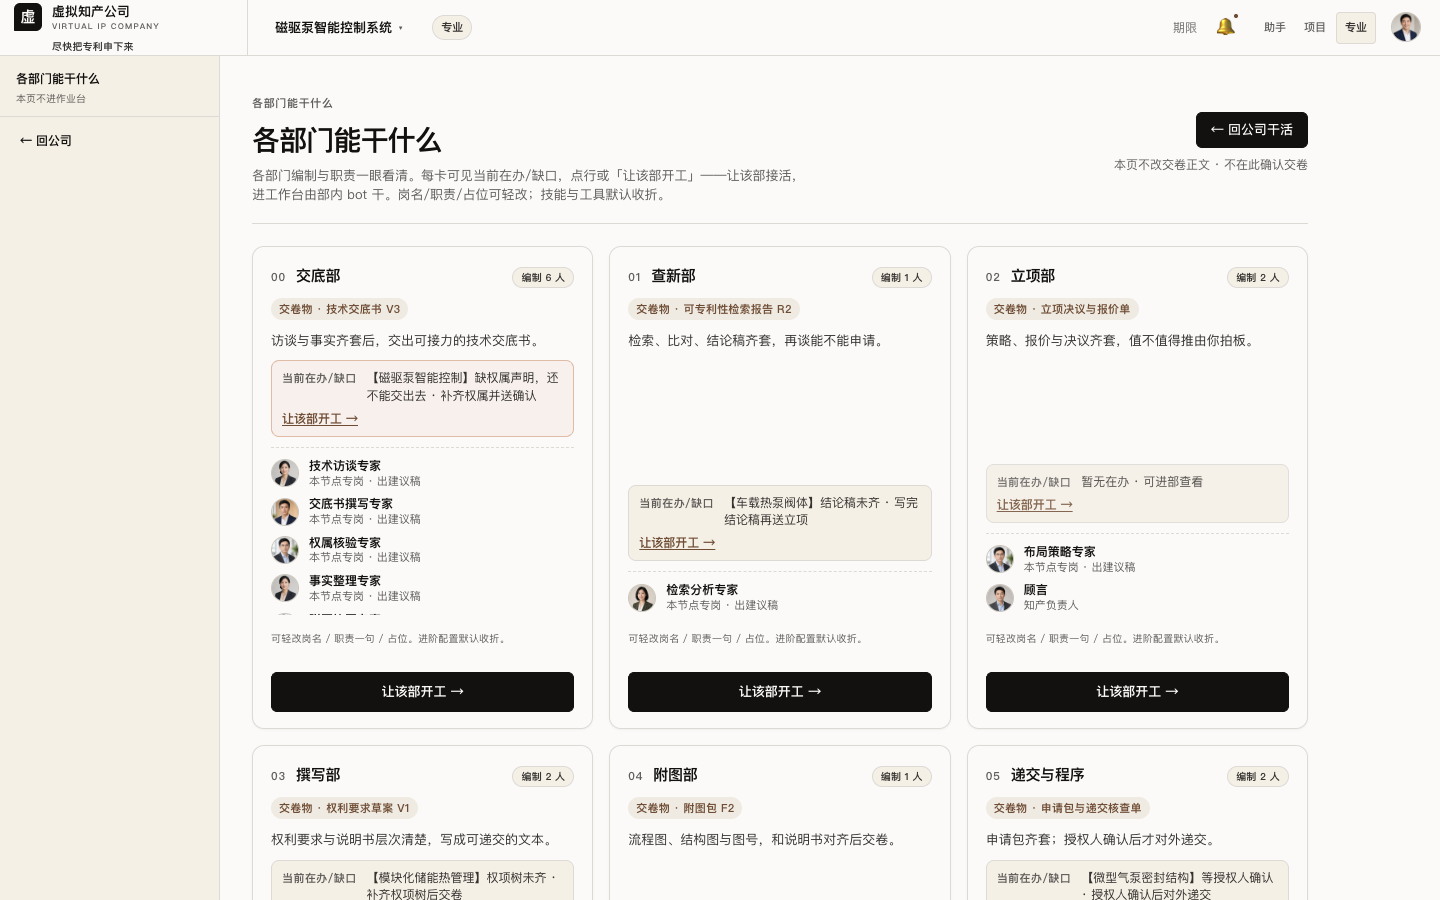
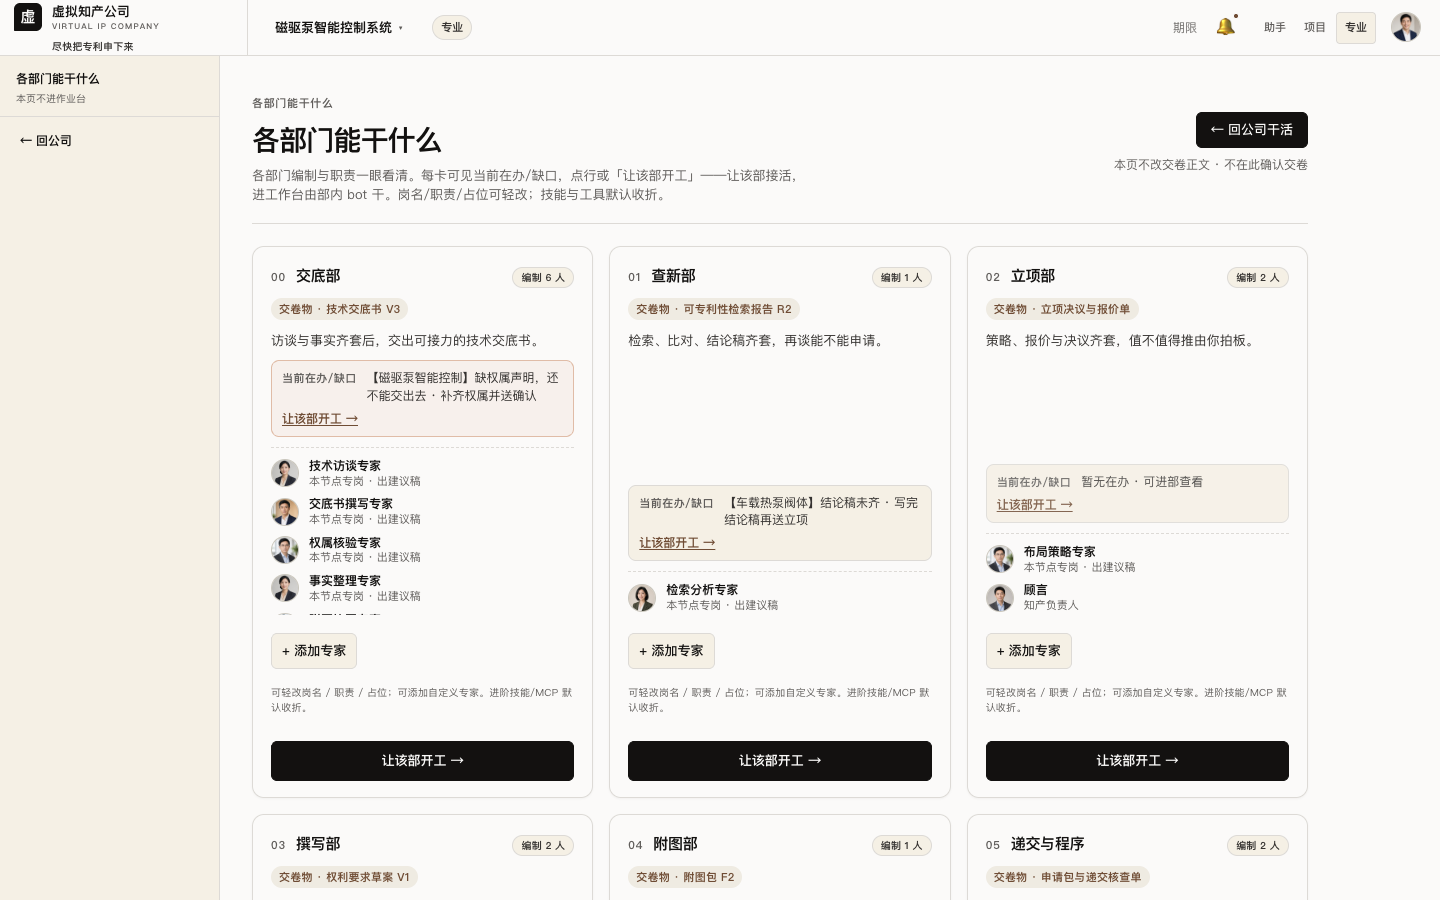
proto: 专业卡「添加专家」轻配；自定义席可删
Leslie 批：每部卡可加专家（岗名+占位；写入 mpv2-prof-light）；
内置席保留 contenteditable；自定义可删；技能/MCP 仍默认收折。
pages/vision 旁注轻配含添加专家。验收 U_prof_add_expert / U_prof_del_custom；37 pass。未 push；禁 apps/agent。

Changed region(s): [[0.4375, 0.6844, 0.9062, 1.0], [0.1875, 0.6844, 0.4062, 1.0]]

diff --git a/docs/prototype/main-path-v2/app.js b/docs/prototype/main-path-v2/app.js
@@ -334,11 +334,19 @@
           light[dept][field] = val;
         } else if (field === 'title' || field === 'role') {
           const wrap = el.closest('[data-prof-expert]');
-          const idx = wrap ? wrap.dataset.idx : null;
-          if (idx == null) return;
-          if (!light[dept].experts) light[dept].experts = {};
-          if (!light[dept].experts[idx]) light[dept].experts[idx] = {};
-          light[dept].experts[idx][field] = val;
+          if (!wrap) return;
+          const customId = wrap.dataset.customId;
+          if (customId) {
+            if (!Array.isArray(light[dept].custom)) light[dept].custom = [];
+            const row = light[dept].custom.find(c => c && c.id === customId);
+            if (row) row[field] = val;
+          } else {
+            const idx = wrap.dataset.idx;
+            if (idx == null) return;
+            if (!light[dept].experts) light[dept].experts = {};
+            if (!light[dept].experts[idx]) light[dept].experts[idx] = {};
+            light[dept].experts[idx][field] = val;
+          }
         }
         saveProfLight(light);
       });
@@ -347,23 +355,72 @@
 
   function renderProfExperts(names, deptId) {
     const light = loadProfLight();
-    const overrides = (light[deptId] && light[deptId].experts) || {};
-    // 按实际编制展示（交底部约 5–6）；禁凑编墙，不截成技能配置
-    return (names || []).map((e, i) => {
+    const deptLight = light[deptId] || {};
+    const overrides = deptLight.experts || {};
+    const hidden = new Set(deptLight.hidden || []);
+    // 按实际编制展示（交底部约 5–6）；禁凑编墙；自定义席来自 mpv2-prof-light.custom
+    const builtIn = (names || []).map((e, i) => {
+      if (hidden.has(String(i))) return '';
       const m = expertMeta(e, i);
       const parts = m.name.split(/\s*·\s*/);
       const title0 = parts[0];
       const role0 = parts[1] || (m.human ? '在岗复核 · 建议稿≠确认' : '本节点专岗 · 出建议稿');
-      const ov = overrides[i] || {};
+      const ov = overrides[i] || overrides[String(i)] || {};
       const title = ov.title || title0;
       const role = ov.role || role0;
       return '<div class="prof-expert" data-prof-expert data-dept="' + deptId + '" data-idx="' + i + '">' +
         '<img class="avatar avatar-photo avatar-small" src="' + m.src + '" alt="" width="32" height="32">' +
         '<span>' +
-          '<strong class="prof-edit" contenteditable="true" spellcheck="false" data-prof-field="title" aria-label="岗名">' + title + '</strong>' +
-          '<small class="prof-edit" contenteditable="true" spellcheck="false" data-prof-field="role" aria-label="占位一句">' + role + '</small>' +
+          '<strong class="prof-edit" contenteditable="true" spellcheck="false" data-prof-field="title" aria-label="岗名">' + esc(title) + '</strong>' +
+          '<small class="prof-edit" contenteditable="true" spellcheck="false" data-prof-field="role" aria-label="占位一句">' + esc(role) + '</small>' +
         '</span></div>';
     }).join('');
+    const customs = (deptLight.custom || []).map((c, ci) => {
+      const title = c.title || '新专家岗';
+      const role = c.role || '占位一句 · 可改';
+      const m = expertMeta(title, (names || []).length + ci);
+      const src = c.avatar || m.src;
+      const cid = c.id || ('c' + ci);
+      return '<div class="prof-expert is-custom" data-prof-expert data-dept="' + deptId + '" data-custom-id="' + esc(cid) + '" data-idx="custom:' + esc(cid) + '">' +
+        '<img class="avatar avatar-photo avatar-small" src="' + src + '" alt="" width="32" height="32" title="头像占位">' +
+        '<span>' +
+          '<strong class="prof-edit" contenteditable="true" spellcheck="false" data-prof-field="title" aria-label="岗名">' + esc(title) + '</strong>' +
+          '<small class="prof-edit" contenteditable="true" spellcheck="false" data-prof-field="role" aria-label="占位一句">' + esc(role) + '</small>' +
+        '</span>' +
+        '<button type="button" class="prof-expert-del" data-del-custom="' + esc(cid) + '" data-dept="' + deptId + '" aria-label="删除自定义专家">×</button>' +
+        '</div>';
+    }).join('');
+    return builtIn + customs;
+  }
+
+  function esc(s) {
+    return String(s == null ? '' : s)
+      .replace(/&/g, '&amp;').replace(/</g, '&lt;').replace(/>/g, '&gt;').replace(/"/g, '&quot;');
+  }
+
+  function profExpertCount(deptId, builtInNames) {
+    const light = loadProfLight();
+    const dl = light[deptId] || {};
+    const hidden = new Set(dl.hidden || []);
+    const base = (builtInNames || []).filter((_, i) => !hidden.has(String(i))).length;
+    return base + ((dl.custom || []).length);
+  }
+
+  function addProfCustomExpert(deptId) {
+    const light = loadProfLight();
+    if (!light[deptId]) light[deptId] = {};
+    if (!Array.isArray(light[deptId].custom)) light[deptId].custom = [];
+    const id = 'c' + Date.now().toString(36) + Math.random().toString(36).slice(2, 5);
+    light[deptId].custom.push({ id: id, title: '新专家岗', role: '占位一句 · 可改' });
+    saveProfLight(light);
+    return id;
+  }
+
+  function removeProfCustomExpert(deptId, customId) {
+    const light = loadProfLight();
+    if (!light[deptId] || !Array.isArray(light[deptId].custom)) return;
+    light[deptId].custom = light[deptId].custom.filter(c => c && c.id !== customId);
+    saveProfLight(light);
   }
 
   function wireWelcomeShelf() {
@@ -971,7 +1028,7 @@
       const light = loadProfLight();
       const duty = (light[d.id] && light[d.id].duty) || (d.pitch || '');
       const faces = renderProfExperts(d.experts, d.id);
-      const nExp = (d.experts || []).length;
+      const nExp = profExpertCount(d.id, d.experts);
       const staffLabel = nExp ? ('编制 ' + nExp + ' 人') : '编制待配';
       const st = profStatusForDept(d.id);
       const statusLead = st.caseShort
@@ -992,7 +1049,8 @@
           '<span class="prof-status-go">让该部开工 →</span>' +
         '</a>' +
         '<div class="prof-experts" aria-label="' + d.name + '专家">' + faces + '</div>' +
-        '<p class="prof-light-hint">可轻改岗名 / 职责一句 / 占位。进阶配置默认收折。</p>' +
+        '<button type="button" class="btn btn-secondary prof-add-expert" data-add-expert="' + d.id + '" aria-label="为' + d.name + '添加专家">+ 添加专家</button>' +
+        '<p class="prof-light-hint">可轻改岗名 / 职责 / 占位；可添加自定义专家。进阶技能/MCP 默认收折。</p>' +
         '<button type="button" class="btn btn-ink prof-go" data-go-dept="' + d.id + '" aria-label="让' + d.name + '开工">让该部开工 →</button>' +
         '</article>';
     }).join('');
@@ -1003,6 +1061,21 @@
       });
     });
     wireProfLightEdit(grid);
+    grid.querySelectorAll('[data-add-expert]').forEach(btn => {
+      btn.addEventListener('click', (e) => {
+        e.preventDefault();
+        addProfCustomExpert(btn.dataset.addExpert);
+        wireProfessionalPage();
+      });
+    });
+    grid.querySelectorAll('[data-del-custom]').forEach(btn => {
+      btn.addEventListener('click', (e) => {
+        e.preventDefault();
+        e.stopPropagation();
+        removeProfCustomExpert(btn.dataset.dept, btn.dataset.delCustom);
+        wireProfessionalPage();
+      });
+    });
     // Legal exits: must setMode(project) before navigating — no studio bounce
     document.querySelectorAll('[data-exit-pro]').forEach(a => {
       a.addEventListener('click', (e) => {
@@ -2885,7 +2958,7 @@
     getDelegation, setDelegation, getSnapshot, setSnapshot, goWorkDept, exitProfessional,
     pendingDeptForRole, gateHref, applyBellByRole, lastWorkHref,
     wireShell, wireTopbarDetails, wireDeptPage, wirePending, wireChecklist, wireDelegate, wireHome, wireCompanyPage, wireCompanySnapshot, wireProfessionalPage, injectGuyanPresence, syncDeptFold, applyRelayHandoff,
-    renderExperts, renderRailExperts, renderExpertFaces, renderProfExperts, wireProfLightEdit, loadProfLight, wireWelcomeShelf, wireCompanyDeptFaces, planFromGoal, wireWelcomeGoalDemo, gapActionsFor,
+    renderExperts, renderRailExperts, renderExpertFaces, renderProfExperts, wireProfLightEdit, loadProfLight, addProfCustomExpert, removeProfCustomExpert, profExpertCount, wireWelcomeShelf, wireCompanyDeptFaces, planFromGoal, wireWelcomeGoalDemo, gapActionsFor,
     syncHomeSurfacesFromCase, renderCompanyCasesStrip
   };
 

diff --git a/docs/prototype/main-path-v2/shell.css b/docs/prototype/main-path-v2/shell.css
@@ -3876,3 +3876,20 @@ html[data-mode="assistant"] [data-company-fold="depts"] { display: none; }
 .company-current-dept-card strong { font-size: 16px; }
 .company-current-dept-card small { color: var(--ink-2); font-size: 13px; line-height: 1.45; }
 .company-current-dept-card .weak-link { justify-self: start; margin-top: 4px; }
+
+
+/* 专业轻配：添加专家 / 删自定义席 */
+.prof-add-expert {
+  margin-top: 8px;
+  align-self: start;
+  font-size: 13px;
+  padding: 6px 10px;
+}
+.prof-expert.is-custom { position: relative; padding-right: 22px; }
+.prof-expert-del {
+  position: absolute; right: 0; top: 4px;
+  border: 0; background: transparent; color: var(--ink-3);
+  cursor: pointer; font-size: 16px; line-height: 1; padding: 2px 6px;
+  border-radius: 4px;
+}
+.prof-expert-del:hover { color: var(--ink); background: oklch(0.95 0.01 85); }

diff --git a/docs/lifecycle/product-pages.md b/docs/lifecycle/product-pages.md
@@ -88,7 +88,7 @@
 | **单一演示真相** | **规格（pages）+ 原型 = 当前唯一演示真相**；不以落后壳冒充产品真相。`apps/agent` 等壳清场后再动；**本轮仍禁改壳**。 |
 | **首页 ≠ 助手档** | 口中「首页」=薄入口 `/agent`。顶栏「助手」=**顾言委托态**（不是首页改名）。二者专管**委托 · 进行中 · 待接力**；**无**墨色缺口大卡（缺口主 CTA 在公司）。进公司/开案仅**弱链**。选案/新建**不**归顾言包办。**禁止** home「项目态」替代公司做满页（`e9053b5`）。 |
 | **侧栏禁区（砍菜单墙）** | 产品入口**只**顶栏三档。侧栏**砍**：**工作首页** / **本公司** / **我的案子** / **待你确认墙**（或等价全局确认墙）。后勤（期限/账单/成员）**不**堆成项目子导航墙。拍板**不**进独立确认页 / 侧栏 pending。 |
-| **专业轻配 · 非第三套** | 专业=带案编制面；轻配=岗名/职责一句/占位可看轻改；**禁第一屏技能/MCP/Prompt/Skill 墙**（**可**有次级/默认收折的轻量技能·MCP 配置区，见 §4.3a）；CTA「让该部开工」→工作台（部内 bot 干）；**不是第三套产品**。 |
+| **专业轻配 · 非第三套** | 专业=带案编制面；轻配=岗名/职责一句/占位可看轻改 + **可添加专家**；**禁第一屏技能/MCP/Prompt/Skill 墙**（**可**有次级/默认收折的轻量技能·MCP 配置区，见 §4.3a）；CTA「让该部开工」→工作台（部内 bot 干）；**不是第三套产品**。 |
 | **顾言边界** | 说目标/路由；**不**替代案盘 / 开案子 / 右栏闸。 |
 | **后勤横切** | 期限/账单/成员是横切工具，**不抢**「公司首页 → 工作台」主链：不得默认着陆、不得在公司首屏主叙事区替代「案况+进度+进当前部」。 |
 | **禁旧侧栏墙回潮** | 清场后**仍禁**侧栏「工作首页 / 本公司 / 我的案子 / 待你确认墙」（及等价全局确认墙）。**禁止**以「可发现性」「用户找案」「案子列表没了」为由把旧侧栏墙加回来。案发现**只**走合法路径：案级顶栏真切换器（最近/全部/开新）、公司首页显眼「本案+最近/全部」列表或入口、项目 tab 有案无活跃→案盘本身。 |
@@ -559,7 +559,7 @@
 | **主入口** | **顶栏「专业」** → 着陆本页（三档切换即换面；**须已有活跃案**；无案按项目 tab 同逻辑先落到有案语境再进） |
 | **次入口** | 公司首页弱链「看专业能力 / 编制」→ 同页；**禁止**侧栏第二全局入口 |
 | **首屏结构** | ① 案名 + 短定位「专业能力 / 编制」② **七部能力卡**（部名 + 职责一句 + **按实际编制**专家占位/岗名；交底部约 5–6 可横滑；更多部门可折叠）③ **每卡一行「当前在办 / 缺口」**（可点「让该部开工」；`e9053b5`；**不只编制卡墙**）④ 每部 CTA **「让该部开工」**——**编制 + 能力 + 在办/缺口 + 开工入口须一眼饱满**；**禁**空编制墙 / 只卡墙无在办；技能/MCP 若有则**默认收折**（非第一屏） |
-| **轻配交互（钉死粒度 · `cd3f3c6` / P1-4 · **B 跟齐 `015c62a`**）** | **主路径可**：岗名、职责一句、专家占位（可看 / 轻改；**按实际编制**；**废 ≤3 硬顶**；交底部约 5–6；禁凑编）。**进阶可选用（vision `015c62a`）**：「技能 / MCP」**轻量配置区**（专业档或明确「进阶」入口）——**默认收折 / 次级**；**非第一屏墙**；不得冒充专业主叙事。**禁**：整屏技能/MCP/Prompt/Skill/测试发布**第一屏墙**。CTA「**让该部开工**」→ 切**项目**档进该部**工作台**（部内 bot 干；仍主路径；轻配以岗名/职责/占位为主，技能·MCP 为进阶）。**不是第三套产品**。 |
+| **轻配交互（钉死粒度 · `cd3f3c6` / P1-4 · **B 跟齐 `015c62a`** · Leslie 批添加专家）** | **主路径可**：岗名、职责一句、专家占位（可看 / 轻改）；**可「添加专家」**（岗名+占位一句；可选头像占位；写入轻配；自定义席可删；演示内置席默认不可删）。**按实际编制**；**废 ≤3 硬顶**；交底部约 5–6；禁凑编。**进阶可选用**：「技能 / MCP」轻量区——**默认收折 / 次级**；**非第一屏墙**。CTA「**让该部开工**」→ 项目档工作台（部内 bot 干）。**不是第三套产品**。 |
 | **主 CTA** | **让该部开工** → 切回**项目**档并进该部 `/cases/:id/depts/:dept` 三栏作业台（部内 bot 干；非用户亲自干） |
 | **与公司首页** | 公司 = 进度/导航认知锚；本页 = 能力/编制；**两页分工**，不合并糊墙 |
 | **与工作台** | 工作台仍是**唯一作业面**（§2 Cursor 三栏不变）；本页**禁止**直接改交卷正文 |

diff --git a/docs/lifecycle/product-vision.md b/docs/lifecycle/product-vision.md
@@ -215,7 +215,7 @@
 | **双真相 → 单一演示真相** | **规格（pages）+ 原型 = 当前唯一演示真相**；演示 / 验收以这两处为准，**不以**落后壳冒充产品真相。`apps/agent` 等壳**清场后再动**；**本轮仍禁改壳**。 |
 | **首页 ≠ 助手档** | 口中「**首页**」= 薄入口 `/agent`（§3.3 B）。顶栏「**助手**」= **顾言委托态**（**不是**把首页改名）。二者专管**委托 · 进行中 · 待接力**；**无**墨色缺口大卡（缺口主 CTA 在公司）。进公司 / 开案仅**弱链**。**选案 / 新建不归顾言包办**。**禁止** home「项目态」替代公司做满页。 |
 | **项目禁菜单墙** | 产品入口**只**顶栏三档（助手 / 项目 / 专业）。**侧栏大幅砍**——禁菜单墙、禁侧栏堆待办当导航。「**待你确认**」**不**独立成侧栏项；拍板仍在工作台**右栏**（**禁**侧栏 pending / **禁**主拍板 pending 页；审计/历史查阅可有，不抢闸）。**清菜单墙 ≠ 藏案列表**：项目≈案，**案盘 / 最近案**必须在**项目作业面可发现**（顶栏真切换器「最近 / 全部 / 开新」、项目 tab 着陆案盘等），砍的是导航墙，不是案子本身。 |
-| **专业 = 带案编制面 · 轻配 · 进阶可配** | 加固壳规则「专业须带案」。CTA「**让该部开工**」（让该部接活→项目档工作台，部内 bot 干）。轻配：岗名 / 职责一句 / 占位可。**主路径禁技能墙**；**进阶可选用**轻量技能 / MCP **配置面**（专业档或明确「进阶」入口；**默认收折**；**不是**第一屏墙）。关系钉死：**不是第三套产品**。 |
+| **专业 = 带案编制面 · 轻配 · 进阶可配** | 加固壳规则「专业须带案」。CTA「**让该部开工**」（让该部接活→项目档工作台，部内 bot 干）。轻配：岗名 / 职责一句 / 占位可改，**可「添加专家」**（自定义席可删）。**主路径禁技能墙**；**进阶可选用**轻量技能 / MCP（**默认收折**；非第一屏墙）。**不是第三套产品**。 |
 | **顾言边界** | 加固 §3.1c：说目标 / 路由（计划可调、分发到部门、跨部接力）。**不**替代案盘 / 开案子 / 右栏闸（确认权）。 |
 
 > **旁注（2026-10-26 · Leslie）**：**清菜单墙 ≠ 藏案列表**。砍侧栏导航墙之后，项目面仍须让人一眼找到案子——**案盘 / 最近案**在项目作业面可发现；否则像「没了案子列表」。

diff --git a/docs/prototype/main-path-v2/README.md b/docs/prototype/main-path-v2/README.md
@@ -29,7 +29,7 @@ cd docs/prototype/main-path-v2 && python3 -m http.server 8766
 | `members.html` | **成员与权限**（后勤弱入口）· 谁能拍板（非专家墙） |
 | `case-new.html` | 开案子字段短 · 目标可选 · 主钮进公司（委托次级） |
 | `company.html` | 一案总览：卡点/下一步/谁在干；**当前部默认露出**；缺口唯一墨色主 CTA；其余六部可折 |
-| `professional.html` | **专业部门页**：能力/编制面；七部能力卡 + 在办/缺口；技能/MCP 默认收折；「让该部开工」 |
+| `professional.html` | **专业部门页**：能力/编制面；七部能力卡 + 在办/缺口；可「添加专家」轻配；技能/MCP 默认收折；「让该部开工」 |
 | `dept.html` | 一屏 Cursor 三栏；两工作台 B；G1 齐套确认（右栏拍板） |
 | `pending.html` | **已废主 hops** · 软跳转 `dept.html?gate=1` |
 | `shell.css` / `app.js` | 纸感 token · 角色/三档换面 · 委托状态 · 快照 |
